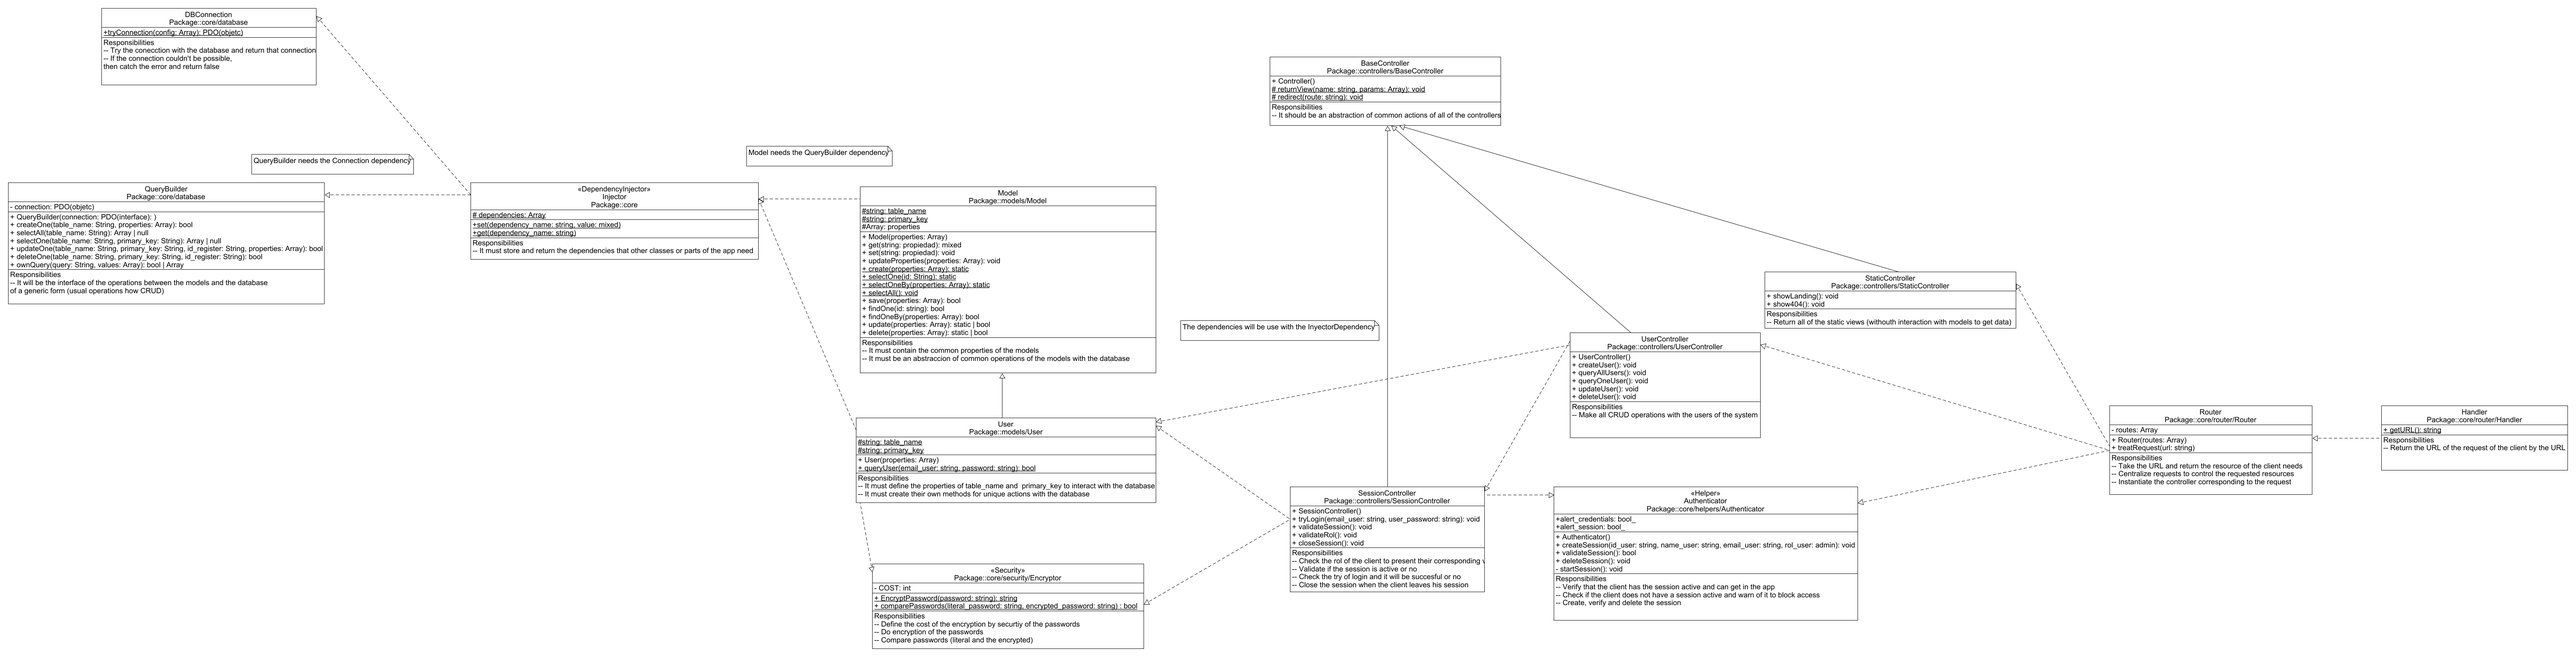
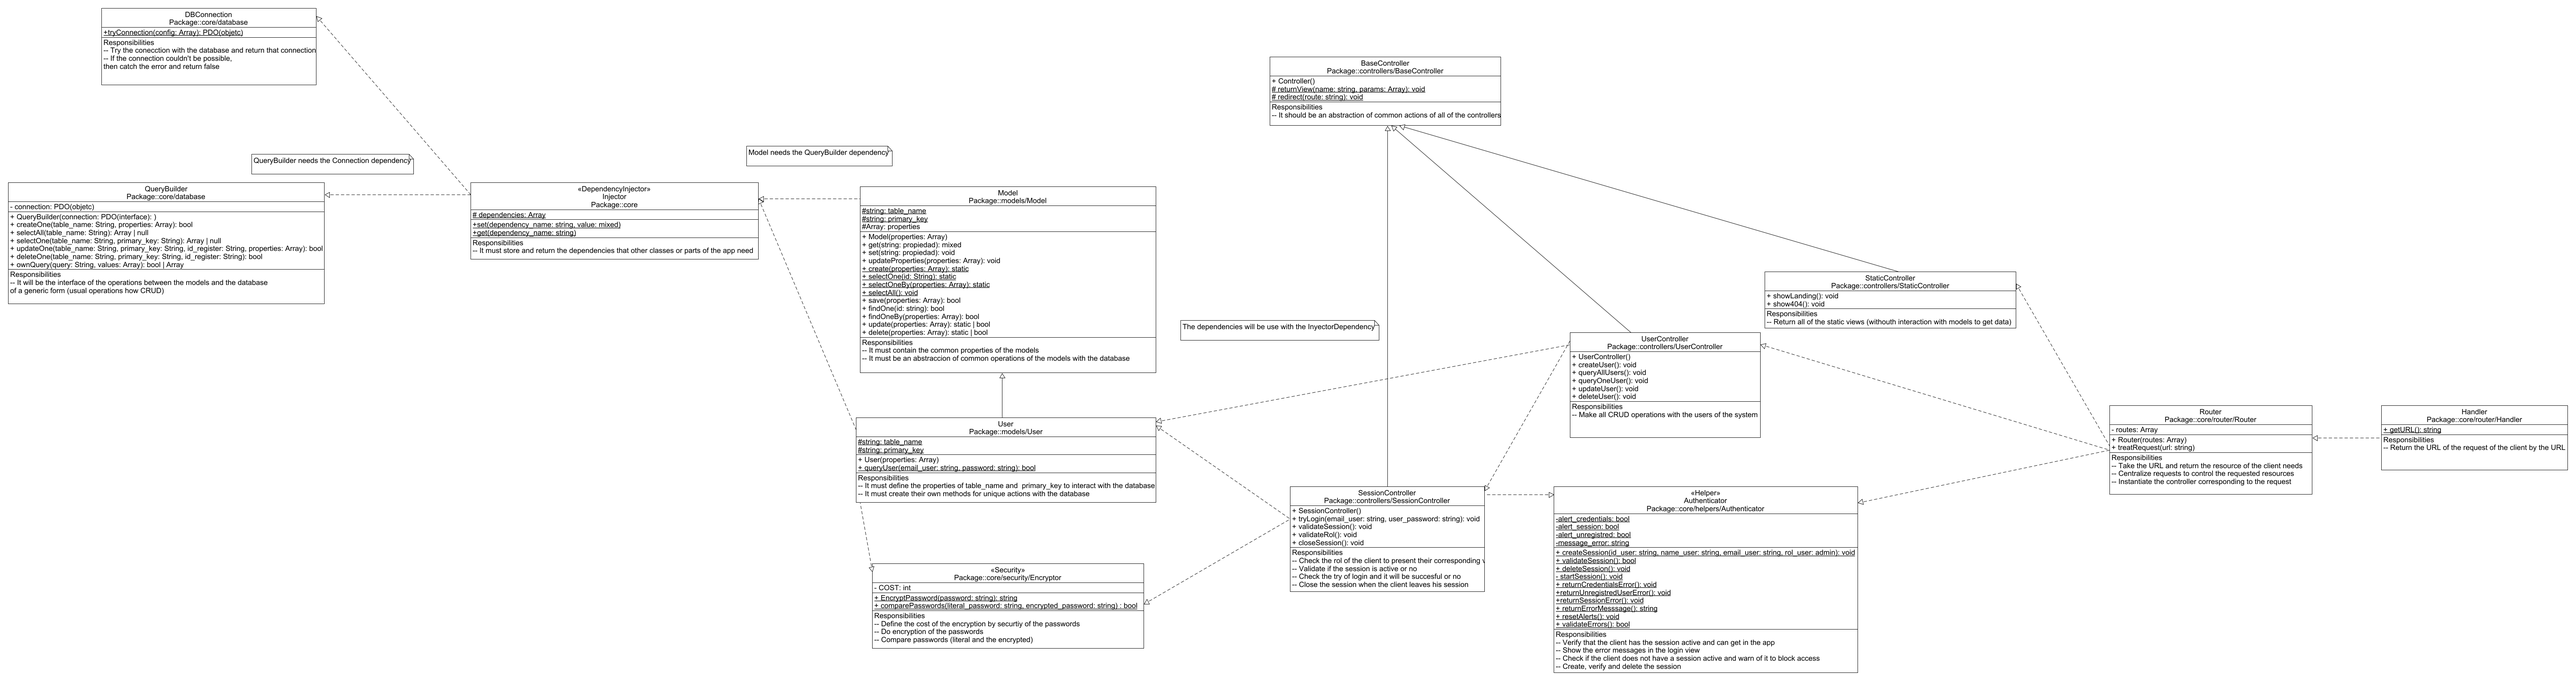
Correción en diagrama UML, agregado los métodos al Authenticator y avances en la documentación del código

diff --git a/core/helpers/Authenticator.php b/core/helpers/Authenticator.php
@@ -8,40 +8,62 @@ class Authenticator{
     */
     private static bool $alert_credentials = false;
     /**
-     * @param bool $alert_credentials is a flag to show a message in the view about is necessary try login to use the app
+     * @param bool $alert_session is a flag to show a message in the view about is necessary try login to use the app
     */
     private static bool $alert_session = false;
+    /**
+     * @param bool $alert_unregistred is a flag to show a message in the view about the user doesn't exists
+    */
     private static bool $alert_unregistred = false;
     /**
      * @param bool $message_error is a dinamic string to show the error to the user in the login form if this fails on login
     */
     private static string $message_error = "";
 
+    /**
+     * This function program the message about incorrect credentials error to show in the login view
+    */
     public static function returnCredentialsError() : void {
         self::$alert_credentials = true;
         self::$message_error = "Contraseña incorrecta, por favor validar";
     }
+    /**
+     * This function program the message about unregistred user error to show in the login view
+    */
     public static function returnUnregistredUserError() : void {
         self::$alert_unregistred = true;
         self::$message_error = "El Usuario no existe en el sistema";
     }
-
+    /**
+     * This function program the message session error to show in the login view
+    */
     public static function returnSessionError() : void {
         self::$alert_session = true;
         self::$message_error = "Por favor iniciar sesión";
     }
 
-    public static function returnMessageError() : string {
+    /**
+     * This function call the reset the values of the alerts and return the error message to give to the view and it should only be used in views
+     * @return string returns the error message to show in the view
+    */
+    public static function returnErrorMesssage() : string {
         self::resetAlerts();
         return self::$message_error;
     }
 
+    /**
+     * This function reset the values of the alerts
+    */
     private static function resetAlerts(): void{
         self::$alert_credentials = false;
         self::$alert_session = false;
         self::$alert_unregistred = true;
     }
 
+    /**
+     * This function validate if exists any alert to show in the view
+     * @return bool true if any alert is ready to show, false in otherwise
+    */
     public static function validateErrors(): bool{
         return (self::$alert_credentials or self::$alert_session or self::$alert_unregistred);
     }

diff --git a/app/models/User.php b/app/models/User.php
@@ -3,6 +3,9 @@
 // This class is the representation of the users in the system
 class User extends Model{
 
+    /**
+     * Please look the parent class (Model) to know about this attributes and the constructor
+    */
     protected static string $table_name = "users";
     protected static string $primary_key = "id";
 
@@ -10,6 +13,10 @@ class User extends Model{
         parent::__construct($properties);
     }
 
+    /**
+     * @param string $email_user is the email of the user to query in the db
+     * @return bool | array false if the query doesn't find any user to the email, array with it's data in otherwise
+    */
     public function queryUserByEmail(string $email_user) : bool | Array{
         
         $query = "SELECT * FROM users WHERE email = ? LIMIT 1";

diff --git a/public/views/Login.view.php b/public/views/Login.view.php
@@ -15,7 +15,7 @@
         <form action="login-form" method="POST">
             <h1>Iniciar sesión</h1>
             <?php if(Authenticator::validateErrors()):?>
-                <h2><?php echo Authenticator::returnMessageError()?></h2>
+                <h2><?php echo Authenticator::returnErrorMesssage()?></h2>
             <?php endif?>
             <div class="credentials email">
                 <label for="email">Correo</label>

diff --git a/app/models/Model.php b/app/models/Model.php
@@ -38,6 +38,10 @@ class Model{
         return $model;
     }
 
+    /**
+     * This function save the record of the model in the database
+     * @return bool true if the record is saved in the database, false in otherwise
+    */
     public function save(): bool{
 
         // It's necessary that of all of the models have defined it's table name
